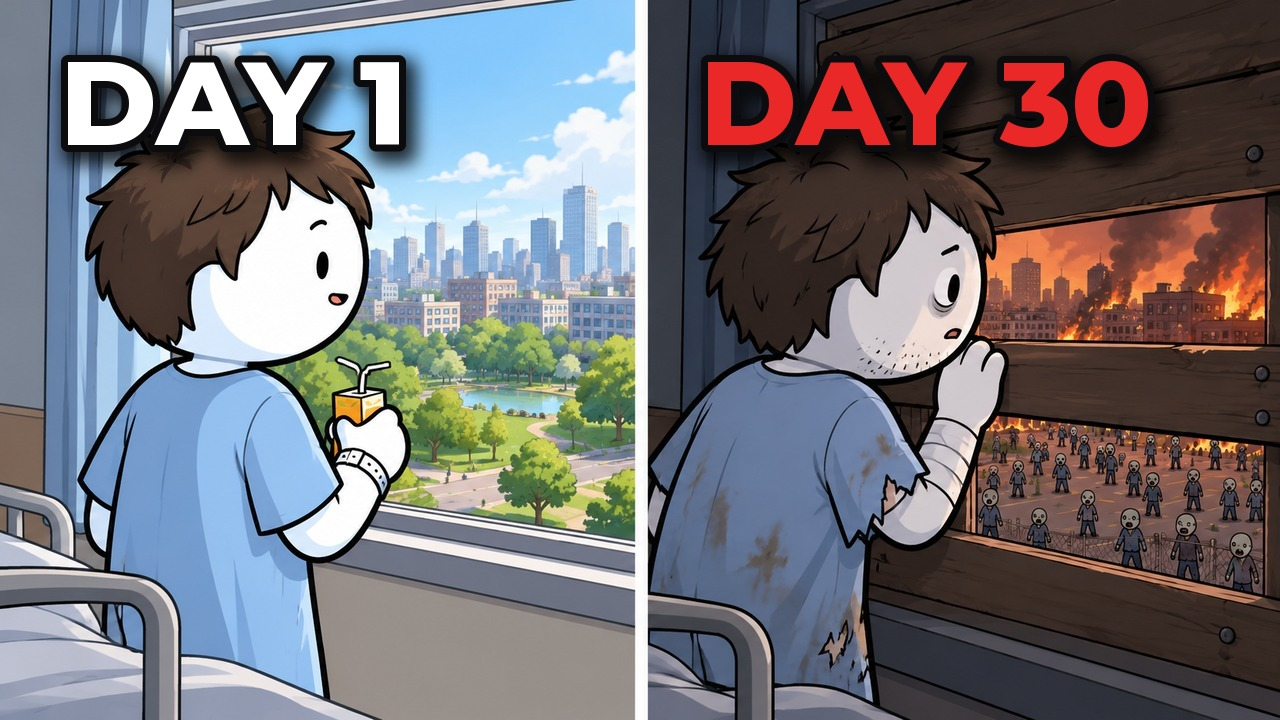
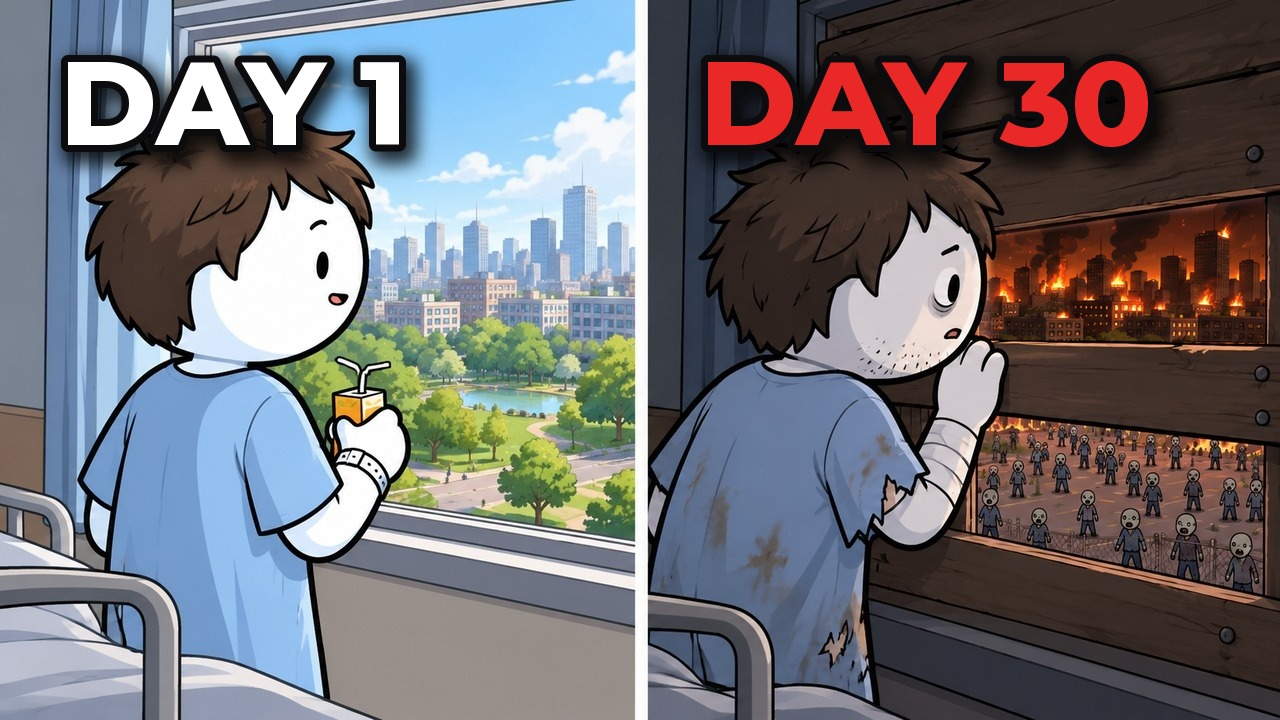
OSL zombie series: Day 30 skyline now matches Day 1 on the thumbnail
Claude-Session: https://claude.ai/code/session_01XPtNuz6vP9iea285j9sr3o

Changed region(s): [[0.75, 0.275, 1.0, 0.4889]]

diff --git a/chaines/oddly-specific-lives/serie-zombie/README.md b/chaines/oddly-specific-lives/serie-zombie/README.md
@@ -13,7 +13,7 @@
   même lieu et même angle des deux côtés. Jour 1 : calme et lumineux. Jour 30 : lieu ravagé, zombies, et le héros
   changé (barbe naissante, bandage, sac à dos, magazines scotchés aux avant-bras). Pas de sang ni de gore.
   Maquettes : [miniatures_day1_day30.jpg](miniatures_day1_day30.jpg) (lit, couloir, fenêtre, cafétéria).
-- **Miniature choisie pour l'épisode 1 :** [miniature_episode1.jpg](miniature_episode1.jpg), la B d'origine, gardée telle quelle à la demande de l'utilisateur (26 oct.), sauf les voitures du parking du jour 30, enlevées à sa demande.
+- **Miniature choisie pour l'épisode 1 :** [miniature_episode1.jpg](miniature_episode1.jpg), la B d'origine, gardée telle quelle à la demande de l'utilisateur (26 oct.), sauf les voitures du parking du jour 30 (enlevées) et la ville du jour 30, refaite avec les mêmes immeubles que le jour 1, en feu.
   Il est vu de 3/4 dos à la fenêtre : jus au soleil au jour 1, il regarde entre les planches au jour 30, la ville
   brûle et des zombies remplissent le parking. Pour les prochaines : retoucher seulement ce qu'il demande, rien d'autre.
 - **Détails à vérifier au zoom avant de montrer quoi que ce soit** (l'utilisateur, 25-26 oct.) : une seule paille ; zombies adultes, deux bras attachés au corps, aucune main qui flotte, aucune tache rouge, aucune croix ni symbole ; une seule ville et un seul horizon par la fenêtre ; au jour 30, le même lieu (même parking, même taille) mais le héros changé (expression, cheveux, barbe), pas un copier-coller du jour 1.
